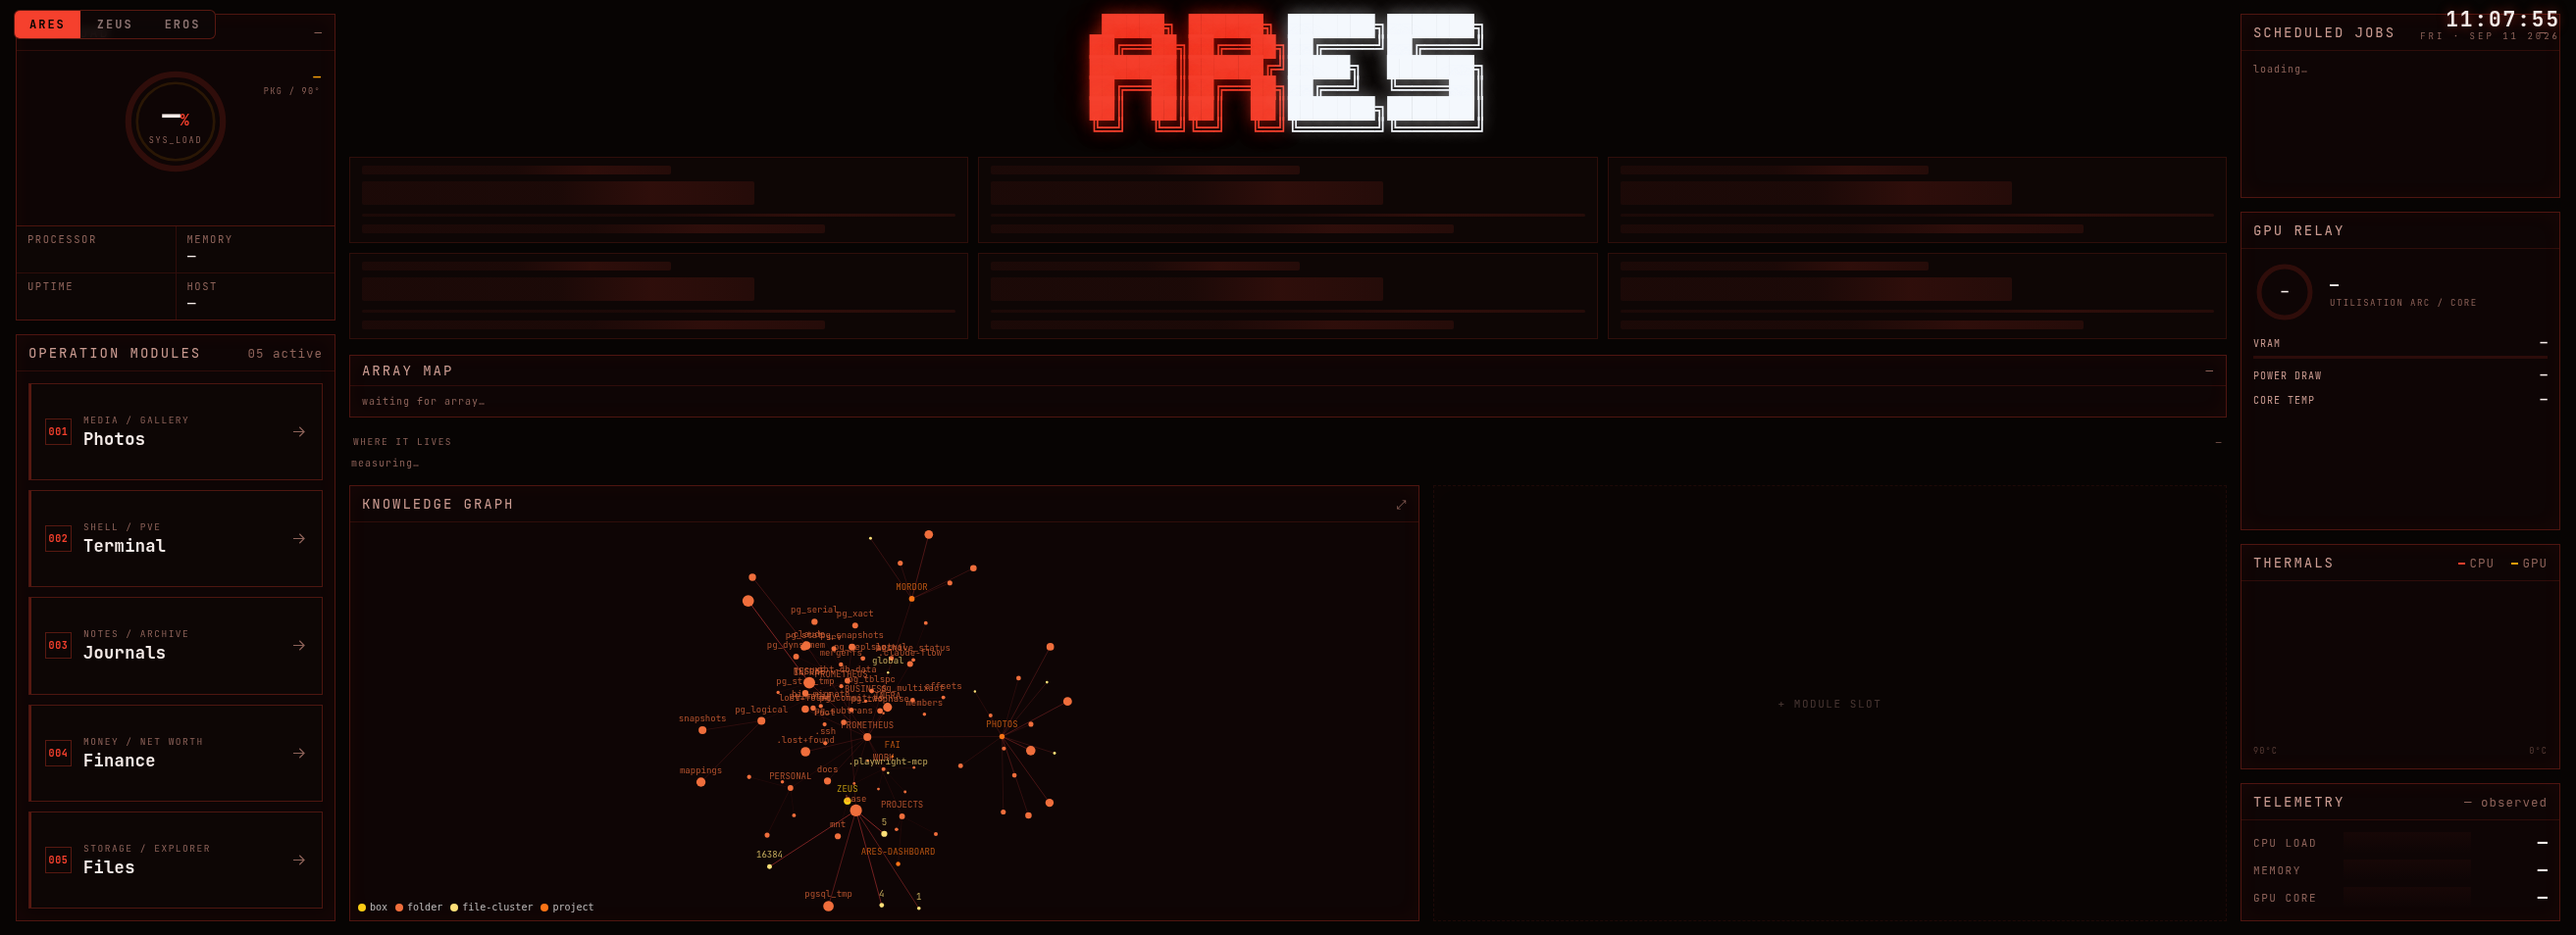
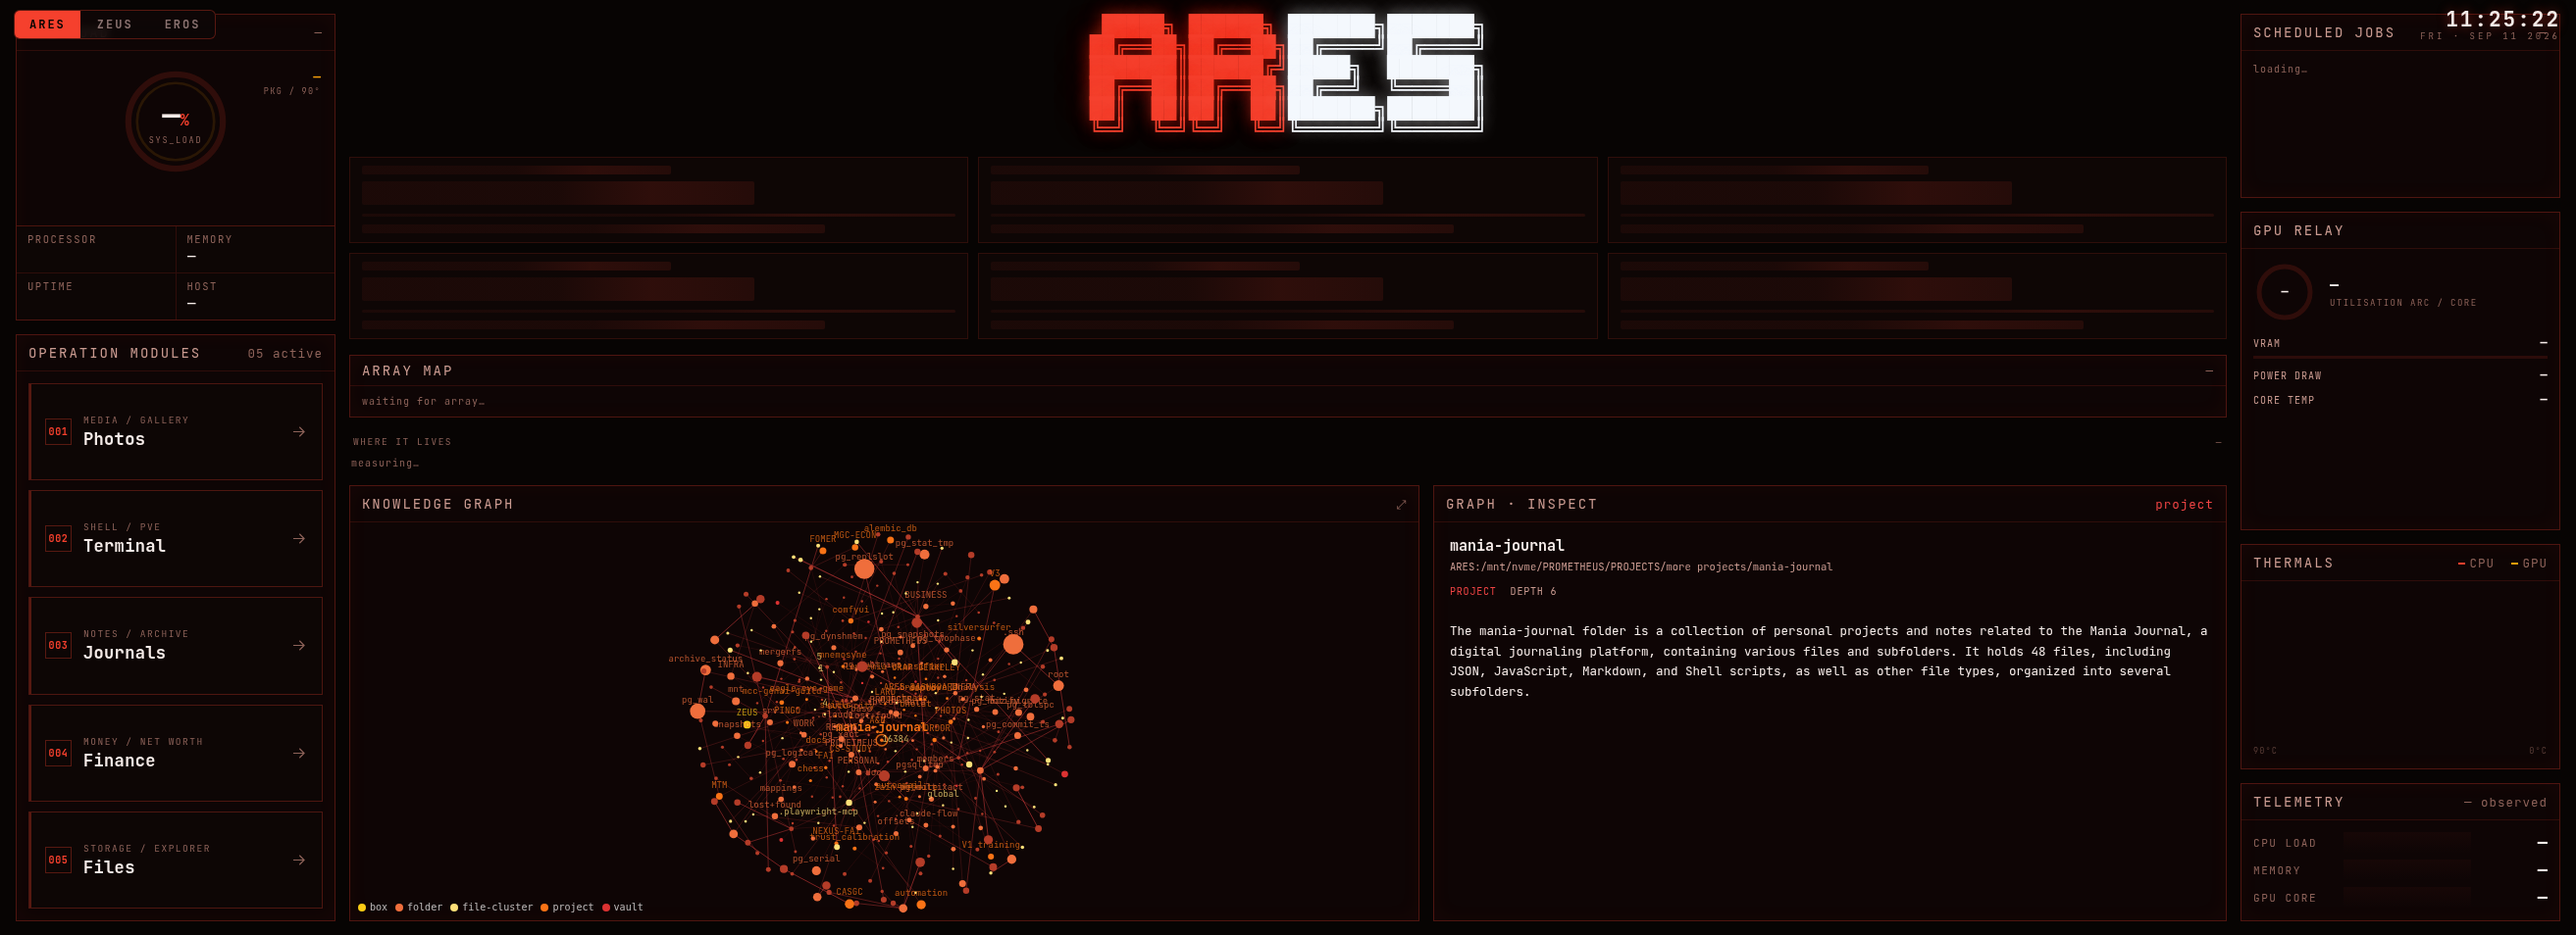
docs: versioned README — V1 prometheon / V2 nexus / V3 ares&nexus / V4 ares·eros·zeus, with each era's dashboard

diff --git a/README.md b/README.md
@@ -8,51 +8,62 @@ lives on that machine, each node annotated with an AI-written description of the
 
 ---
 
-## The dashboards
+## Evolution
 
-### ARES — the host (red)
-Proxmox host: runs the dashboard, the photo library, and the shared RTX 3080.
+It started as one box and a photo browser. Four versions later it's a three-machine mission-control
+layer. These are the actual dashboards, rendered straight from their git history.
 
+### V1 · `prometheon`
+The origin: a single box running a **photo gallery**, a **web terminal**, and a **system-vitals** panel,
+under a blue `PROMETHEON` wordmark. More app-launcher than dashboard.
+
+![V1 — prometheon](docs/screenshots/versions/v1-prometheon.png)
+
+### V2 · `nexus`
+The rename. `prometheon` became **nexus** as a second machine came online — the small "nexus" mini-NAS
+beside the main host. A bridge phase: it carried V1's foundation forward and set up the two-box split.
+*(No standalone dashboard from this short-lived naming era survives in the history — it went straight
+into V3.)*
+
+### V3 · `ARES & NEXUS`
+Two boxes. The main host became **ARES** (the "super-NAS"), with **NEXUS** as its mini-NAS peer. The
+dashboard grew into the red **ARES** wordmark, a capability-gated layout shared across both machines,
+**operation modules**, and a peer/sister-node panel showing the other box's health.
+
+![V3 — ARES & NEXUS](docs/screenshots/versions/v3-ares-nexus.png)
+
+### V4 · `ARES · EROS · ZEUS`  *(current)*
+Three machines. **NEXUS became ZEUS**, and a third box — **EROS** — joined. One template renders three
+full-screen, per-box themed views (red / amber / blue), each pulling its own data, each with a
+traversable knowledge graph. A switcher (top-left) and a live clock (top-right) tie them together.
+
+**ARES** — the Proxmox host: dashboard, photo library, shared RTX 3080.
 ![ARES dashboard](docs/screenshots/ares.png)
 
-### EROS — the worker (amber)
-Ryzen + GTX 1070 box that runs the business container stack. Its "operation modules" are the live
-containers, not apps.
-
+**EROS** — the worker: Ryzen + GTX 1070 running the business container stack (its "operation modules"
+are the live containers, not apps).
 ![EROS dashboard](docs/screenshots/eros.png)
 
-### ZEUS — the vault (blue)
-Backup mule that wakes on a timer, pulls nightly copies of ARES + EROS, and sleeps. Its view centers on
-the **combined** knowledge graph — the union of all three machines.
-
+**ZEUS** — the vault: a backup mule that wakes on a timer, pulls nightly copies of ARES + EROS, and
+sleeps. Its view centers on the **combined** knowledge graph — the union of all three machines.
 ![ZEUS dashboard](docs/screenshots/zeus.png)
 
----
-
-## Lineage
-
-It started as **prometheon**. It became **nexus**. Then I split it into **ARES** + nexus, built **EROS**,
-and it settled into three machines: **ARES · EROS · ZEUS**.
-
-> "nexus" was the earlier name for the third box — it's **ZEUS** now. The name survives here as history.
-
-The repo name (`ARES-HERMES`) and the pool path (`PROMETHEUS`) are fossils from earlier stops on that
-road. Same project, more machines.
+> The repo name (`ARES-HERMES`) and the pool path (`PROMETHEUS`) are fossils from earlier stops on that
+> road. Same project, more machines.
 
 ---
 
 ## What's inside
 
-- **One template, three brands.** `templates/home.html` renders per-box via `data-brand`; a switcher
-  (top-left) and a live clock (top-right) tie the three views together. Each box pulls its own data —
-  ARES from its host APIs, EROS/ZEUS from a shared fleet snapshot — so no view ever shows another box's
-  numbers.
+- **One template, three brands.** `templates/home.html` renders per-box via `data-brand`; each box pulls
+  its own data — ARES from its host APIs, EROS/ZEUS from a shared fleet snapshot — so no view ever shows
+  another box's numbers.
 - **Knowledge graph (MNEMOSYNE).** A stdlib-only Python indexer walks each box's filesystem to a bounded
   depth, fingerprints folders, and asks a local LLM (Ollama) to write a one-line "understanding" of each
   one — vault directories are name-only, never scanned. The result is a force-directed 3D graph you can
-  spin, zoom, and click: pick a node to read its write-up, or open fullscreen to focus-and-spotlight a
-  subtree. A nightly job keeps it current, and an always-on MCP server exposes it to any agent session
-  (`kg_search`, `kg_get`, `kg_neighbors`, `kg_tree`, `kg_stat`).
+  spin, zoom, and click: pick a node to read its write-up in the inspector, or open fullscreen to
+  focus-and-spotlight a subtree. A nightly job keeps it current, and an always-on MCP server exposes it
+  to any agent session (`kg_search`, `kg_get`, `kg_neighbors`, `kg_tree`, `kg_stat`).
 - **Fleet telemetry.** CPU / memory / load / thermals / GPU relay per box, plus a storage "where it
   lives" breakdown.
 - **The apps behind the tiles.** A CLIP-searchable photo gallery with face clustering, a GoodNotes
